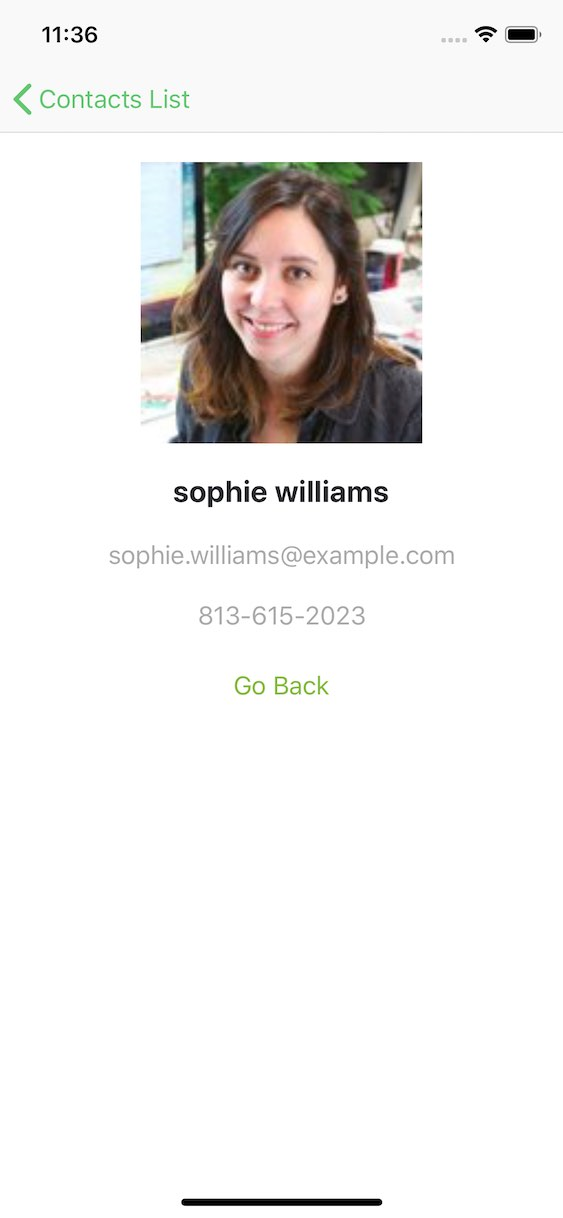
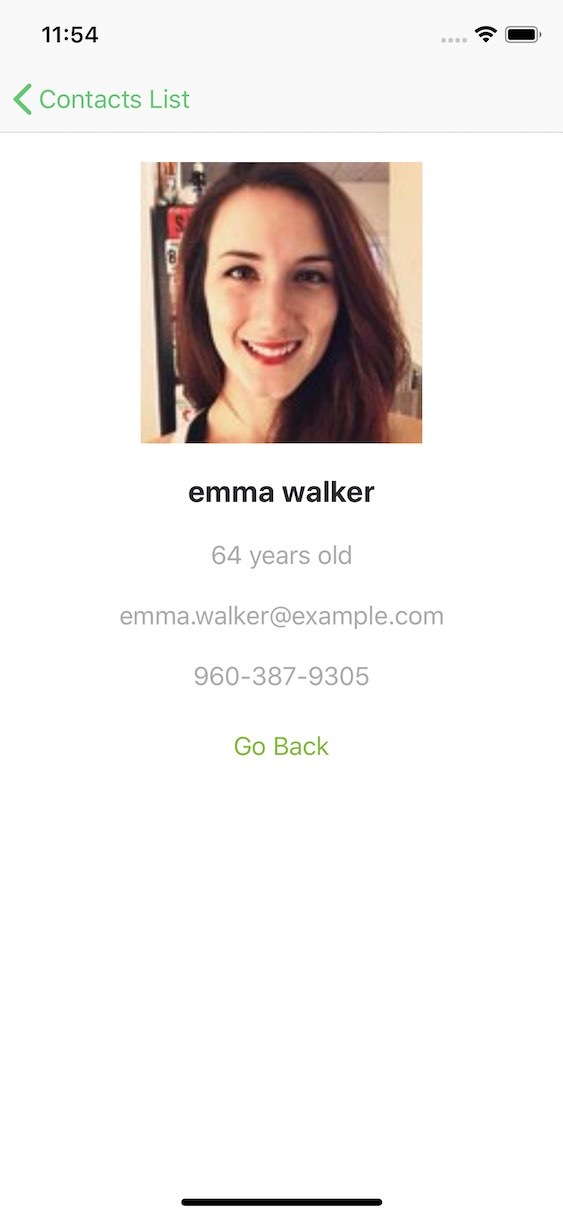
Added an age field. Updated README

Changed region(s): [[0.1812, 0.1248, 0.8153, 0.468], [0.2114, 0.4992, 0.7851, 0.624], [0.1208, 0.0, 0.1812, 0.0312]]

diff --git a/Contacts List/Source/Models.swift b/Contacts List/Source/Models.swift
@@ -23,9 +23,14 @@ struct ApiPicture: Codable {
     let thumbnail: String
 }
 
+struct ApiDob: Codable {
+    let age: Int
+}
+
 struct ApiUser: Codable {
     let name: ApiName
     let email: String
+    let dob: ApiDob
     let phone: String
     let picture: ApiPicture
 }
@@ -47,13 +52,15 @@ struct ApiResponse: Codable {
 struct User {
     let name: String
     let email: String
+    let age: Int
     let phone: String
     let thumbnailUrl: String
     let pictureUrl: String
     
-    init(name: String, email: String, phone: String, thumbnailUrl: String, pictureUrl: String) {
+    init(name: String, email: String, phone: String, age: Int, thumbnailUrl: String, pictureUrl: String) {
         self.name = name
         self.email = email
+        self.age = age
         self.phone = phone
         self.thumbnailUrl = thumbnailUrl
         self.pictureUrl = pictureUrl
@@ -62,6 +69,7 @@ struct User {
     init(fromNetworkUser user: ApiUser) {
         self.name = "\(user.name.first) \(user.name.last)"
         self.email = user.email
+        self.age = user.dob.age
         self.phone = user.phone
         self.thumbnailUrl = user.picture.thumbnail
         self.pictureUrl = user.picture.large

diff --git a/Contacts List/Source/UserDetailsViewController.swift b/Contacts List/Source/UserDetailsViewController.swift
@@ -13,6 +13,7 @@ class UserDetailsViewController: UIViewController {
     // Outlets
     @IBOutlet weak var userImageView: UIImageView!
     @IBOutlet weak var userNameLabel: UILabel!
+    @IBOutlet weak var userAgeLabel: UILabel!
     @IBOutlet weak var userEmailLabel: UILabel!
     @IBOutlet weak var userPhoneLabel: UILabel!
     @IBOutlet weak var backButton: UIButton!
@@ -42,6 +43,7 @@ class UserDetailsViewController: UIViewController {
     // Other Functions
     func setColorsUp() {
         userNameLabel.textColor = darkColor
+        userAgeLabel.textColor = greyColor
         userEmailLabel.textColor = greyColor
         userPhoneLabel.textColor = greyColor
         navigationItem.leftBarButtonItem?.tintColor = greenColor
@@ -51,6 +53,7 @@ class UserDetailsViewController: UIViewController {
     func setTextUp() {
         guard let unwrappedUser = user else { return }
         userNameLabel.text = unwrappedUser.name
+        userAgeLabel.text = "\(unwrappedUser.age) years old"
         userEmailLabel.text = unwrappedUser.email
         userPhoneLabel.text = unwrappedUser.phone
     }

diff --git a/Contacts List/Source/Config.swift b/Contacts List/Source/Config.swift
@@ -12,7 +12,7 @@ import UIKit
 
 // MARK: Configuration
 let API_BASE_URL = "https://randomuser.me/api/?"
-let REQUEST_FIELDS = ["name", "email", "phone", "id", "picture"]
+let REQUEST_FIELDS = ["name", "email", "phone", "id", "picture", "dob"]
 let NUMBER_PER_REQUEST = 20
 let USERS_NAT = "ca"
 

diff --git a/README.md b/README.md
@@ -3,6 +3,11 @@ This is a sample app used to introduce individuals to the basics of iOS App Deve
   
 Use the `master` branch for the in-person workshop. Alternatevily, you should checkout the `completed` branch if you want to see the completed project.
 -----
+### Screenshots
+![Main Screen](Screenshots/main_screen.jpg "Main Screen")
+![User Details Screen](Screenshots/details_screen.jpg "User Details Screen")
+
+-----
 ### Workshop Topics
 - Tooling
 - The App Life Cycle
